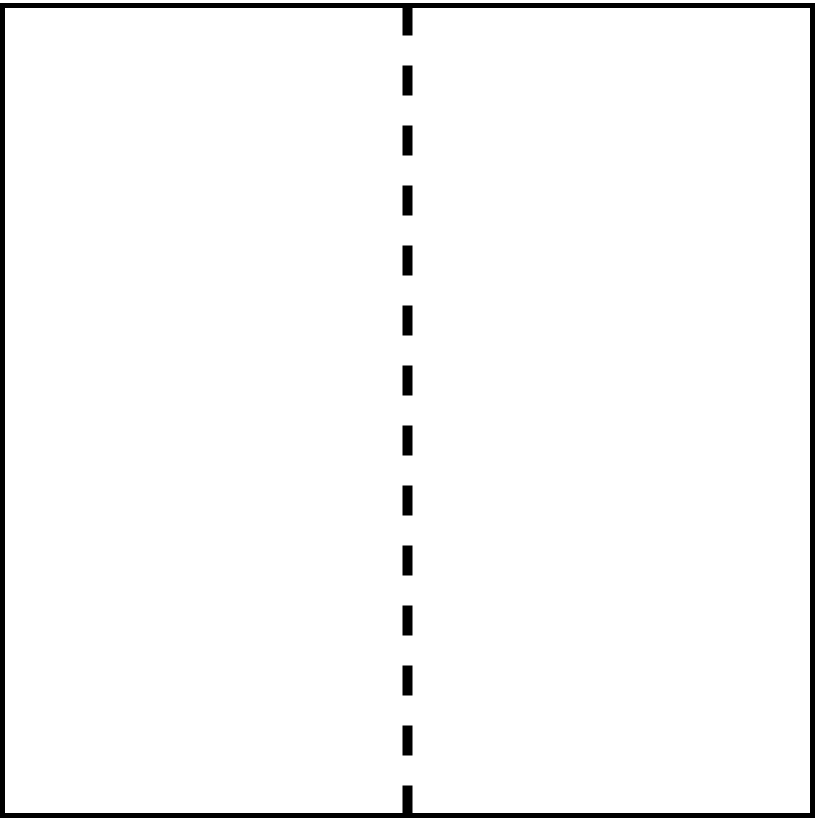
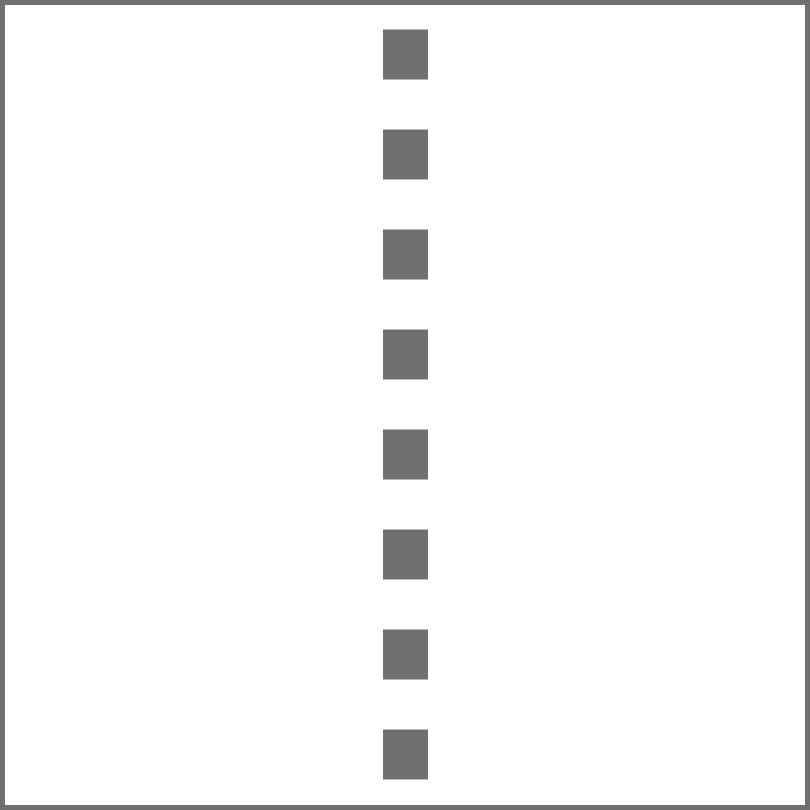
Increase width of wall to stop cross contamination between sectors.

Changed region(s): [[0.0, 0.0, 1.0, 1.0]]

diff --git a/experiments/covid/population.py b/experiments/covid/population.py
@@ -71,16 +71,12 @@ class Population(Swarm):
                                     obj_type="obstacle")
             self.objects.add_object(file="experiments/covid/images/wall.png",
                                           pos=[500, 500],
-                                          scale=[5, 800],
+                                          scale=[46, 800],
                                           obj_type="obstacle")
 
-        #print(self.objects.obstacles.sprites()[0])
-        # print(self.objects.obstacles.sprites()[0].__hash__())
-        # print(self.objects.obstacles.sprites()[1].__hash__())
-        # print(self.objects.obstacles.sprites()[0].kill())
 
-        min_x, max_x = area(config["base"]["object_location"][0], config["base"]["scale"][0])
-        min_y, max_y = area(config["base"]["object_location"][1], config["base"]["scale"][1])
+        min_x, max_x = 110, 440
+        min_y, max_y = 110, 800
         for index, agent in enumerate(range(num_agents)):
             coordinates = generate_coordinates(self.screen)
 
@@ -92,7 +88,7 @@ class Population(Swarm):
             ):
                 coordinates = generate_coordinates(self.screen)
 
-            if index % 15 == 0:
-                self.add_agent(Person(pos=np.array(coordinates), v=None, population=self, index=index, mode='infected', color='red'))
+            if index % 35 == 0:
+                self.add_agent(Person(pos=np.array(coordinates), v=None, population=self, index=index, mode='infected'))
             else:
-                self.add_agent(Person(pos=np.array(coordinates), v=None, population=self, index=index, mode='susceptible', color='blue'))
+                self.add_agent(Person(pos=np.array(coordinates), v=None, population=self, index=index, mode='susceptible'))

diff --git a/experiments/covid/person.py b/experiments/covid/person.py
@@ -7,7 +7,7 @@ from simulation.utils import *
 
 
 class Person(Agent):
-    def __init__(self, pos, v, population, index: int, mode, color, image: str = "experiments/covid/images/susceptible.png") -> None:
+    def __init__(self, pos, v, population, index: int, mode, color='blue', image: str = "experiments/covid/images/susceptible.png") -> None:
         super(Person, self).__init__(
             pos,
             v,
@@ -23,7 +23,7 @@ class Person(Agent):
 
         self.population = population
         self.timer = 0
-        self.view_radius = 40
+        self.view_radius = config['agent']['radius']
         self.mode = mode
         self.p_infection = 0.1
         base_image, rect = image_with_rect(image, [10, 10])

diff --git a/simulation/simulation.py b/simulation/simulation.py
@@ -149,7 +149,7 @@ class Simulation:
                 if len(self.swarm.objects.wall0.sprites()) == 0:
                     self.swarm.objects.add_object(file="experiments/covid/images/wall.png",
                                                   pos=[500, 500],
-                                                  scale=[5, 800],
+                                                  scale=[46, 800],
                                                   obj_type="wall0")
             else:
                 if len(self.swarm.objects.wall0.sprites()) > 0:
